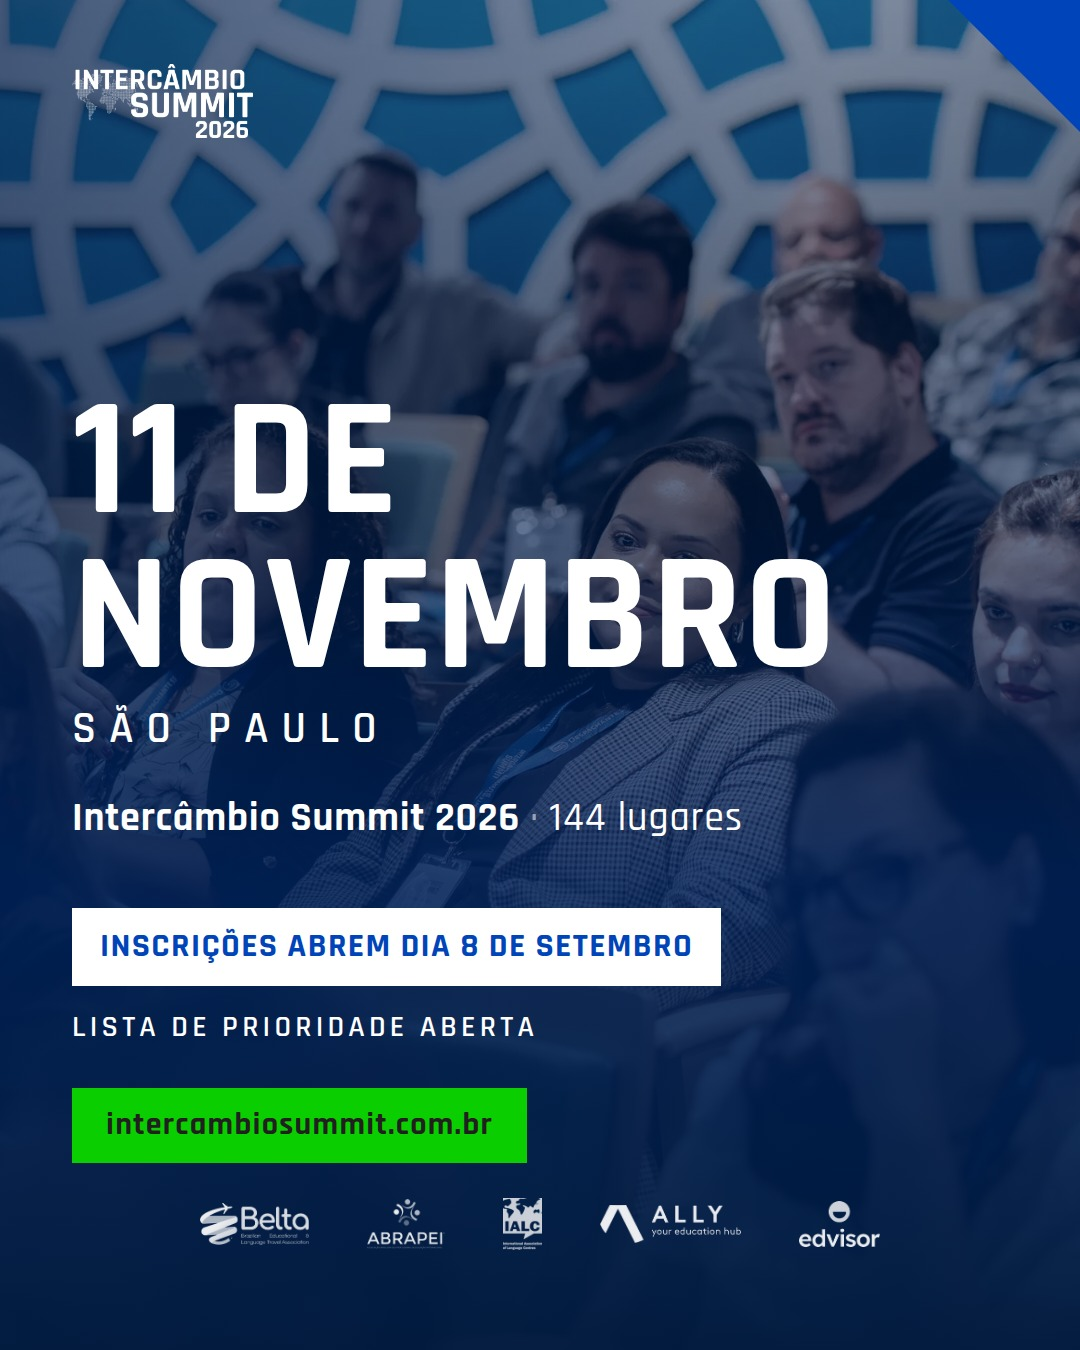
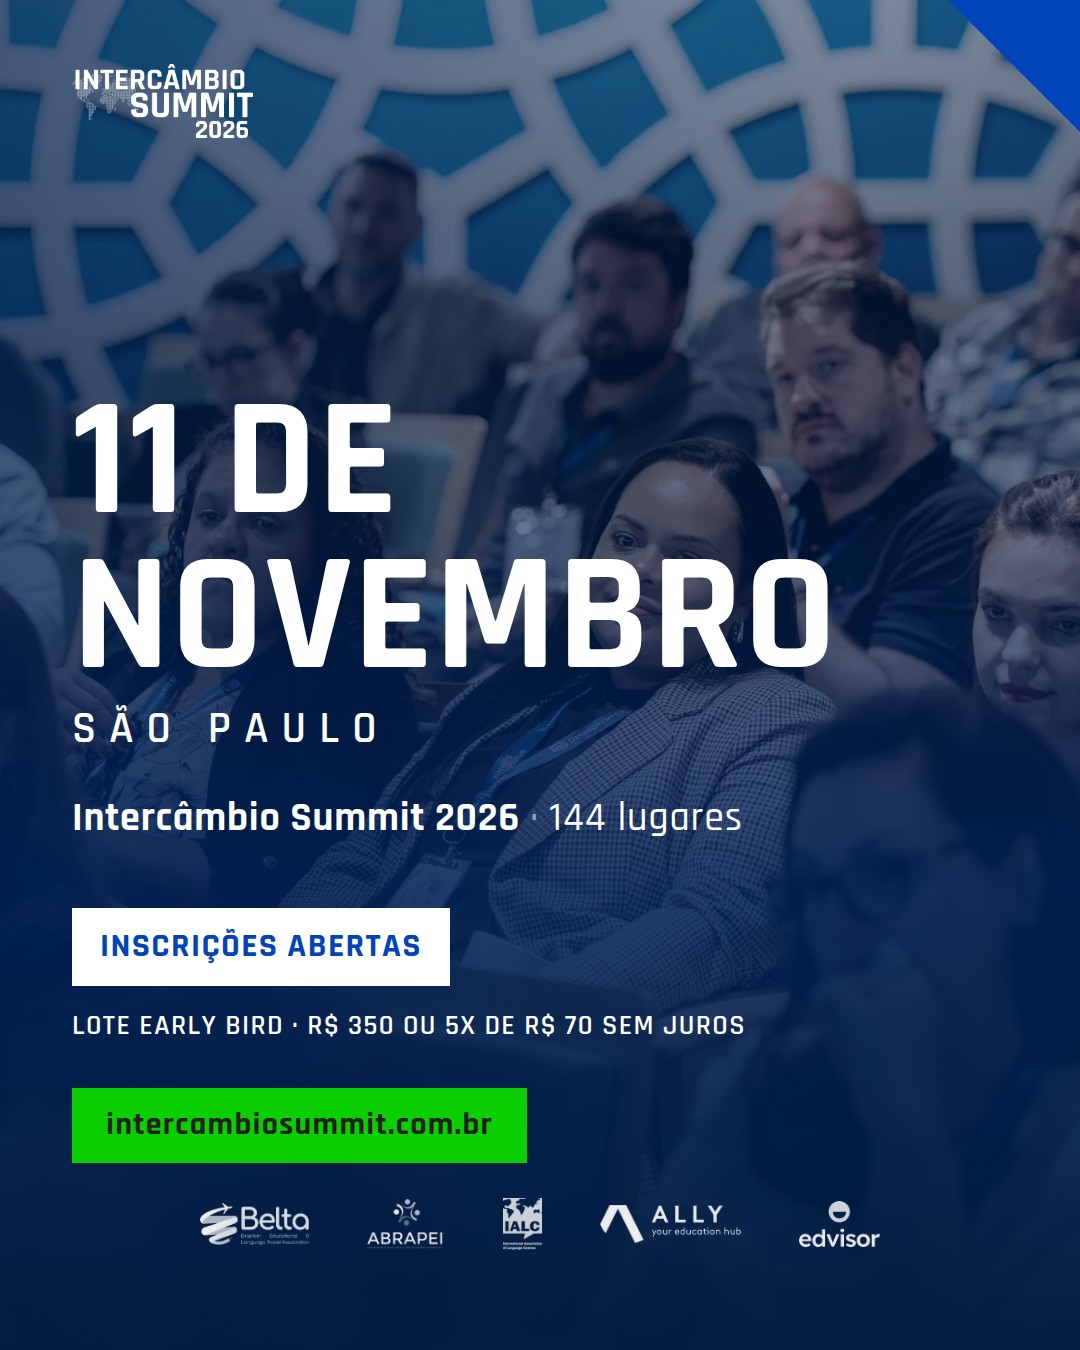
Vendas abertas já em 02/09: P1 atualizado e calendário antecipado
- P1 (save the date): 'Inscrições abrem dia 8' vira 'Inscrições abertas'
  com o Lote Early Bird e preço; lista de prioridade sai
- Calendário do Planner: P3 (abertura de vendas) antecipado para 02/09
  às 17h, P4 (tabela) fica em 08/09; legendas do P1 e P2 alinhadas
- O site já vendia (Early Bird desde 01/09 no evento.config.js)

Claude-Session: https://claude.ai/code/session_01K1jUSLEfcAN8o76QZJPw2m

Changed region(s): [[0.0611, 0.6533, 0.7028, 0.7778]]

diff --git a/criativos/templates/setembro-p1-save-the-date.html b/criativos/templates/setembro-p1-save-the-date.html
@@ -15,7 +15,7 @@
   .pill-abertura { display: inline-block; background: var(--white); color: var(--summit-blue);
     font-weight: 700; font-size: 34px; letter-spacing: .04em; text-transform: uppercase;
     padding: 16px 28px 18px; }
-  .lista { margin-top: 22px; font-weight: 600; font-size: 30px; letter-spacing: .14em;
+  .lista { margin-top: 22px; font-weight: 600; font-size: 28px; letter-spacing: .05em;
     text-transform: uppercase; color: var(--white); }
   .cta-wrap { position: absolute; left: var(--mx); top: 1088px; }
   .cta { font-size: 32px; padding: 16px 34px 18px; }
@@ -36,8 +36,8 @@
     </div>
 
     <div class="bloco-abertura">
-      <div class="pill-abertura">Inscrições abrem dia 8 de setembro</div>
-      <div class="lista">Lista de prioridade aberta</div>
+      <div class="pill-abertura">Inscrições abertas</div>
+      <div class="lista">Lote Early Bird · R$ 350 ou 5x de R$ 70 sem juros</div>
     </div>
 
     <div class="cta-wrap"><span class="cta">intercambiosummit.com.br</span></div>

diff --git a/criativos/build_planner_setembro.py b/criativos/build_planner_setembro.py
@@ -24,13 +24,11 @@ POSTS = [
 
 Um dia inteiro para donos de agências, representantes de instituições e gestores de internacionalização, com o tema que o próprio mercado escolheu: inteligência artificial na operação de quem vende intercâmbio.
 
-São 144 lugares, e as inscrições abrem no dia 8 de setembro.
-
-A lista de prioridade já está aberta, quem entra nela é avisado antes.
+São 144 lugares, e as inscrições já estão abertas: Lote Early Bird por R$ 350, ou 5x de R$ 70 sem juros, até 30 de setembro.
 
 11 de novembro · São Paulo
 
-Lista de prioridade no link da bio.
+Ingressos no link da bio.
 
 """ + HASH_BASE + " #educacaointernacional #studyabroad #agenciadeintercambio #mercadodeintercambio #eventocorporativo #saopaulo #summit2026 #ia #networking #b2b"),
 
@@ -42,11 +40,11 @@ Em 2026, ela deixou de ser uma sessão e virou o evento inteiro: IA aplicada a a
 
 11 de novembro · São Paulo
 
-Inscrições abrem dia 8 de setembro, lista de prioridade no link da bio.
+Lote Early Bird até 30 de setembro, ingressos no link da bio.
 
 """ + HASH_BASE + " #inteligenciaartificial #ia #educacaointernacional #agenciadeintercambio #mercadodeintercambio #studyabroad #eventob2b #saopaulo #summit2026 #inovacao"),
 
-    ("2026-09-08", "09h00", "abertura-de-vendas", ["p03-abertura-de-vendas.jpg"], """Inscrições abertas para o Intercâmbio Summit 2026.
+    ("2026-09-02", "17h00", "abertura-de-vendas", ["p03-abertura-de-vendas.jpg"], """Inscrições abertas para o Intercâmbio Summit 2026.
 
 O encontro do mercado brasileiro de intercâmbio, agora com um dia inteiro dedicado à inteligência artificial na operação: atendimento, marketing e vendas.
 
@@ -60,7 +58,7 @@ Ingressos no link da bio.
 
 """ + HASH_BASE + " #educacaointernacional #agenciadeintercambio #studyabroad #mercadodeintercambio #eventob2b #saopaulo #summit2026 #ia #networking #earlybird"),
 
-    ("2026-09-08", "15h00", "tabela-de-precos", ["p04-tabela-de-precos.jpg"], """O preço sobe. O evento é o mesmo.
+    ("2026-09-08", "11h30", "tabela-de-precos", ["p04-tabela-de-precos.jpg"], """O preço sobe. O evento é o mesmo.
 
 A tabela de lotes do Intercâmbio Summit 2026 é uma escada: quem decide cedo paga R$ 350, quem deixa para a porta paga R$ 650.
 
@@ -216,6 +214,7 @@ def main():
         linhas.append(f"| {data} | {hora} | {slug} | {len(arquivos)} | aguardando agendamento |")
     linhas += ["",
                "Observações:",
+               "- Vendas abertas desde 02/09: P1 (11h30) anuncia e P3 (17h00) converte no mesmo dia.",
                "- 23/09 tem dois posts (anúncio do Myrko e carrossel 9 cards), manhã e fim de tarde.",
                "- O post do Myrko inclui a versão B (card de frase) como arquivo 02, opcional.",
                "- P11 tem versão do dia 29 (Último dia) e do dia 30 (Termina hoje, 23h59)."]

diff --git a/criativos/out/setembro-planner/AGENDAMENTO.md b/criativos/out/setembro-planner/AGENDAMENTO.md
@@ -8,8 +8,8 @@ Horários são sugestão (público consome no meio do expediente); ajustar à vo
 |---|---|---|---|---|
 | 2026-09-02 | 11h30 | save-the-date | 1 | aguardando agendamento |
 | 2026-09-04 | 11h30 | pauta-escolhida | 1 | aguardando agendamento |
-| 2026-09-08 | 09h00 | abertura-de-vendas | 1 | aguardando agendamento |
-| 2026-09-08 | 15h00 | tabela-de-precos | 1 | aguardando agendamento |
+| 2026-09-02 | 17h00 | abertura-de-vendas | 1 | aguardando agendamento |
+| 2026-09-08 | 11h30 | tabela-de-precos | 1 | aguardando agendamento |
 | 2026-09-10 | 11h30 | primeiro-atendimento | 1 | aguardando agendamento |
 | 2026-09-12 | 11h30 | prova-social | 1 | aguardando agendamento |
 | 2026-09-16 | 11h30 | temas-das-sessoes | 5 | aguardando agendamento |
@@ -21,6 +21,7 @@ Horários são sugestão (público consome no meio do expediente); ajustar à vo
 | 2026-09-30 | 08h00 | termina-hoje | 1 | aguardando agendamento |
 
 Observações:
+- Vendas abertas desde 02/09: P1 (11h30) anuncia e P3 (17h00) converte no mesmo dia.
 - 23/09 tem dois posts (anúncio do Myrko e carrossel 9 cards), manhã e fim de tarde.
 - O post do Myrko inclui a versão B (card de frase) como arquivo 02, opcional.
 - P11 tem versão do dia 29 (Último dia) e do dia 30 (Termina hoje, 23h59).
